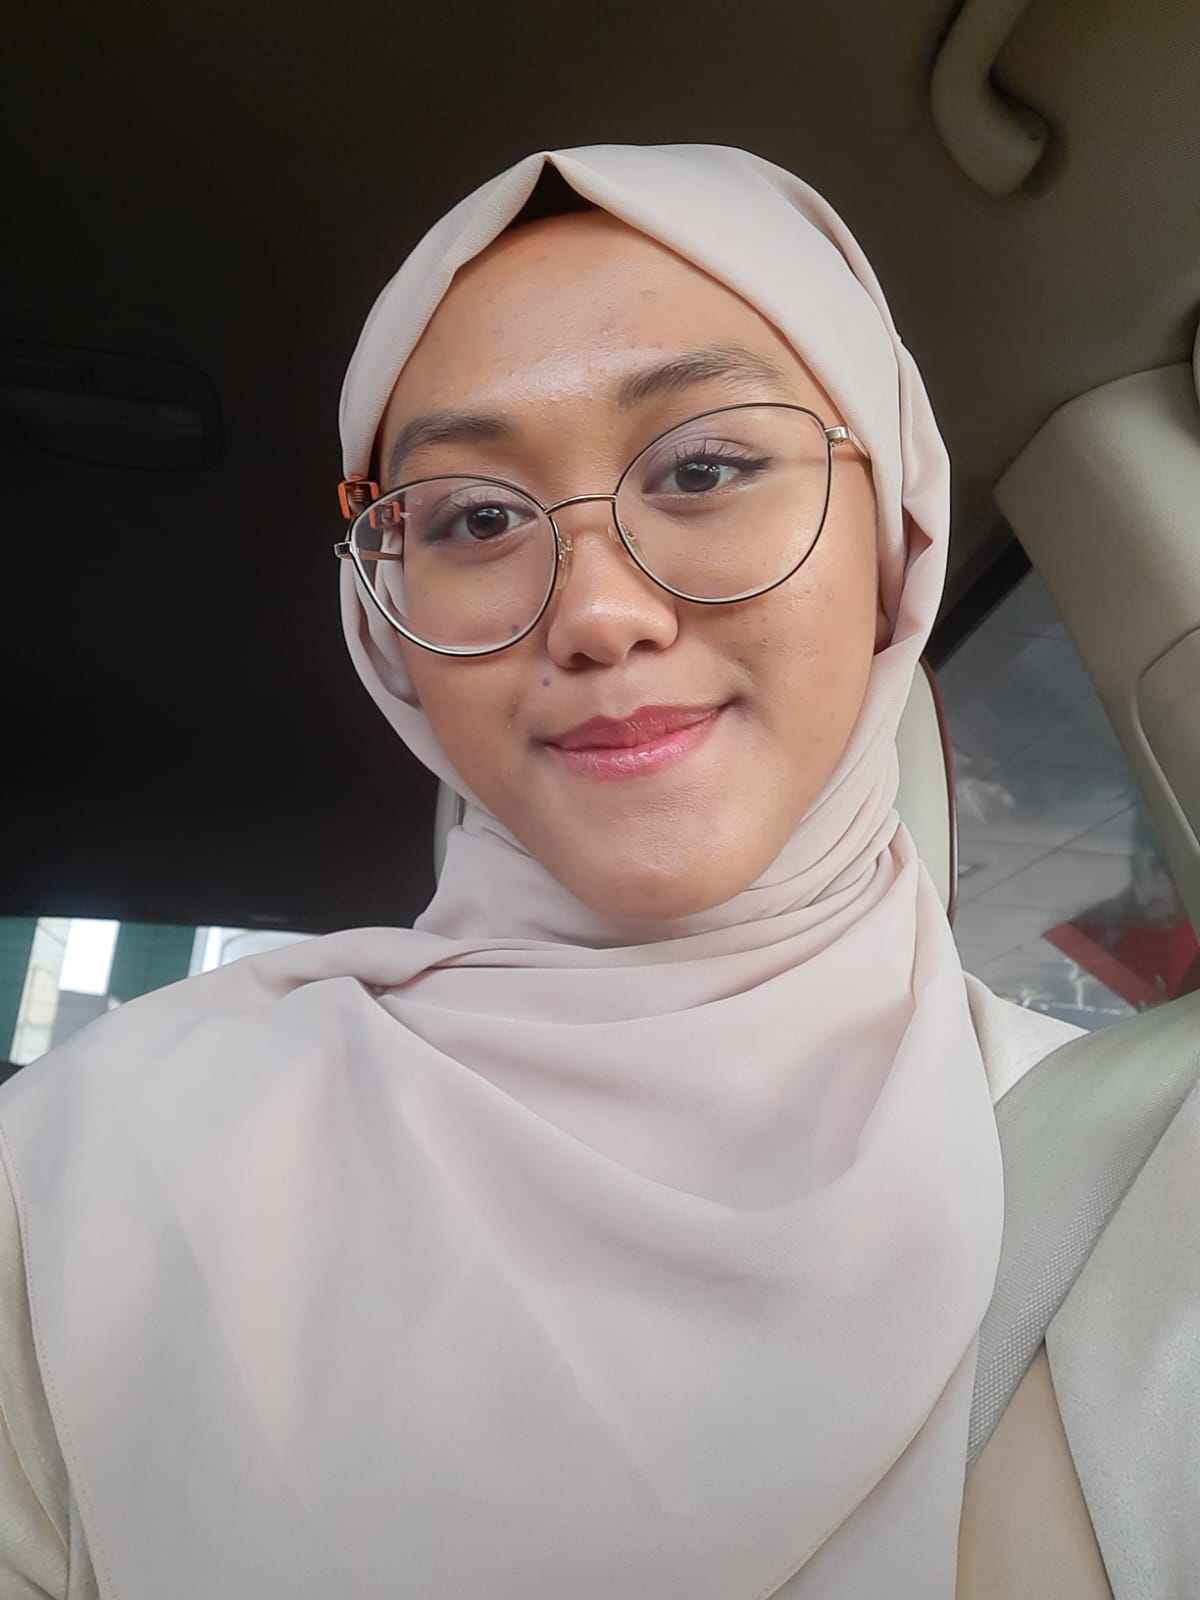
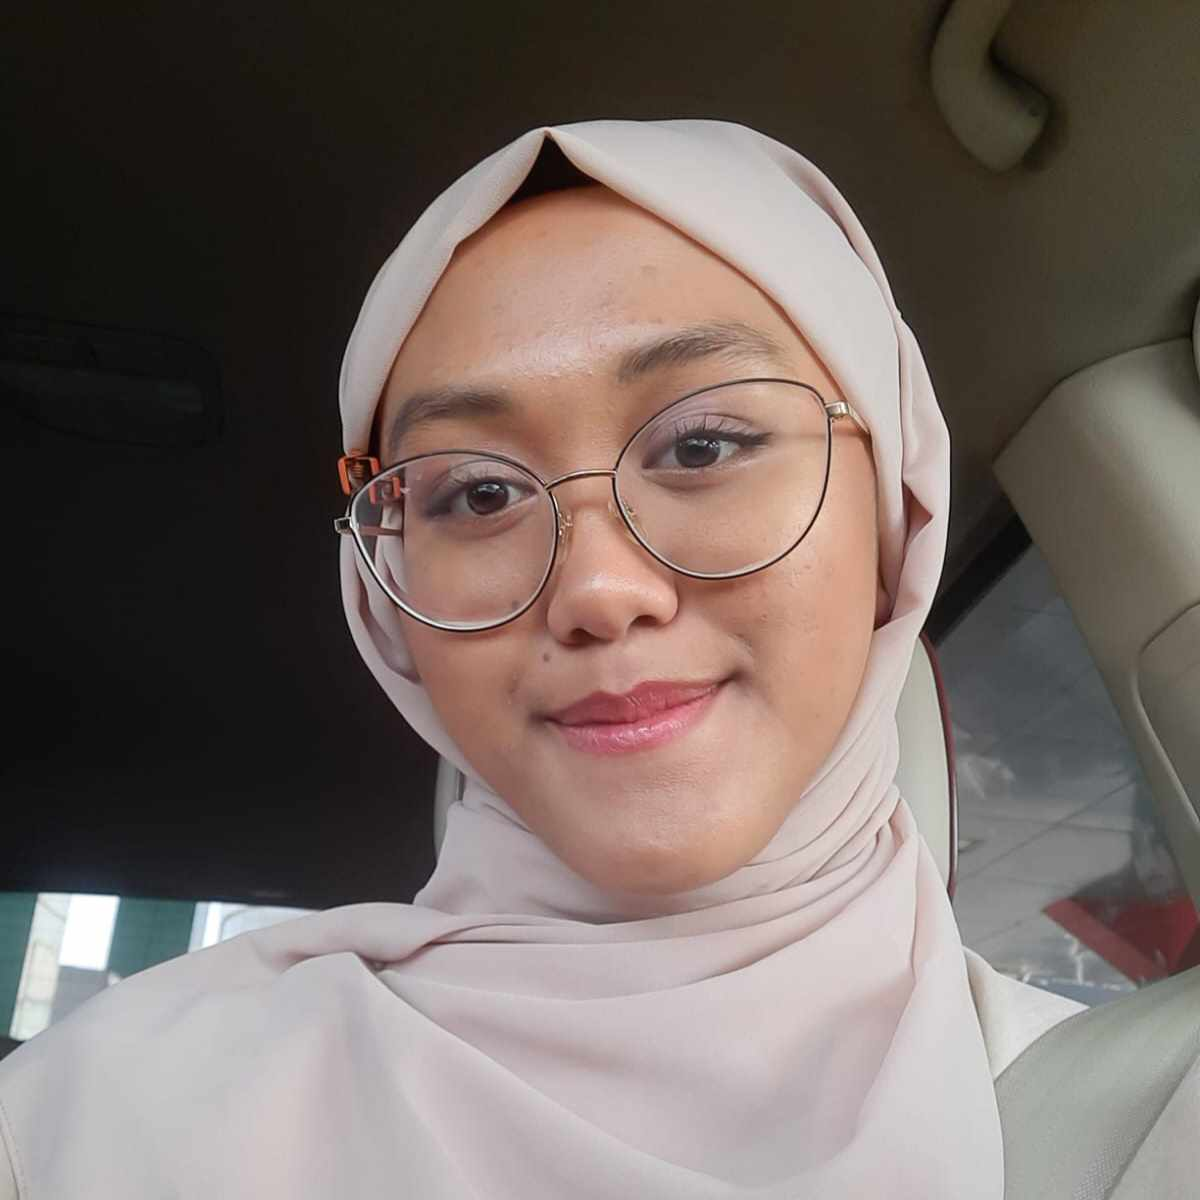
Update

diff --git a/tips-belajar-percaya-diri-dari-marilyn-monroe.html b/tips-belajar-percaya-diri-dari-marilyn-monroe.html
@@ -669,9 +669,10 @@ In your html page, add the snippet and call gtag_report_conversion when someone 
 
                         <div class="blog-author clearfix">
                             <div class="row">
-                                <div class="col-md-2">
-                                    <img src="assets/img/intern/aida.jpg"
-                                        class="rounded-circle float-left img-thumbnail" alt="EDIT_NAMA_PENULIS">
+                                <div class="col-md-2 ">
+                                    <img src="assets/img/intern/aida.jpg "
+                                        class="rounded-circle float-left img-thumbnail h-400px w-400px"
+                                        alt="EDIT_NAMA_PENULIS">
                                 </div>
 
                                 <div class="col-md-10">
